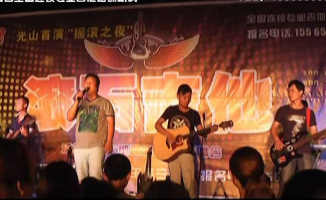
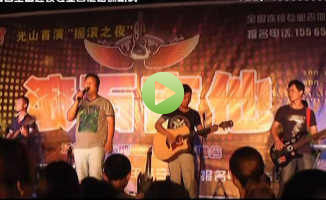
added images/button-play.png

Changed region(s): [[0.4294, 0.36, 0.5828, 0.6]]

diff --git a/video.html b/video.html
@@ -89,7 +89,7 @@ height:500
 });
 </script>
       </div>
-      <p class="video_desc">"断桥残雪" by 朱爱华</p>
+      <p class="video_desc">《断桥残雪》弹唱-朱爱华</p>
 
       <div class="video_container content_2">
         <script type="text/javascript" src="jwplayer/jwplayer.js"></script>
@@ -104,7 +104,7 @@ height:500
 });
 </script>
       </div>
-      <p class="video_desc">"千与千寻" by　潘乐</p> 
+      <p class="video_desc">《千与千寻》指弹独奏-潘乐</p>
         <div class="video_container content_3">
           <script type="text/javascript" src="jwplayer/jwplayer.js"></script>
           <div id="video_0905_1"></div>
